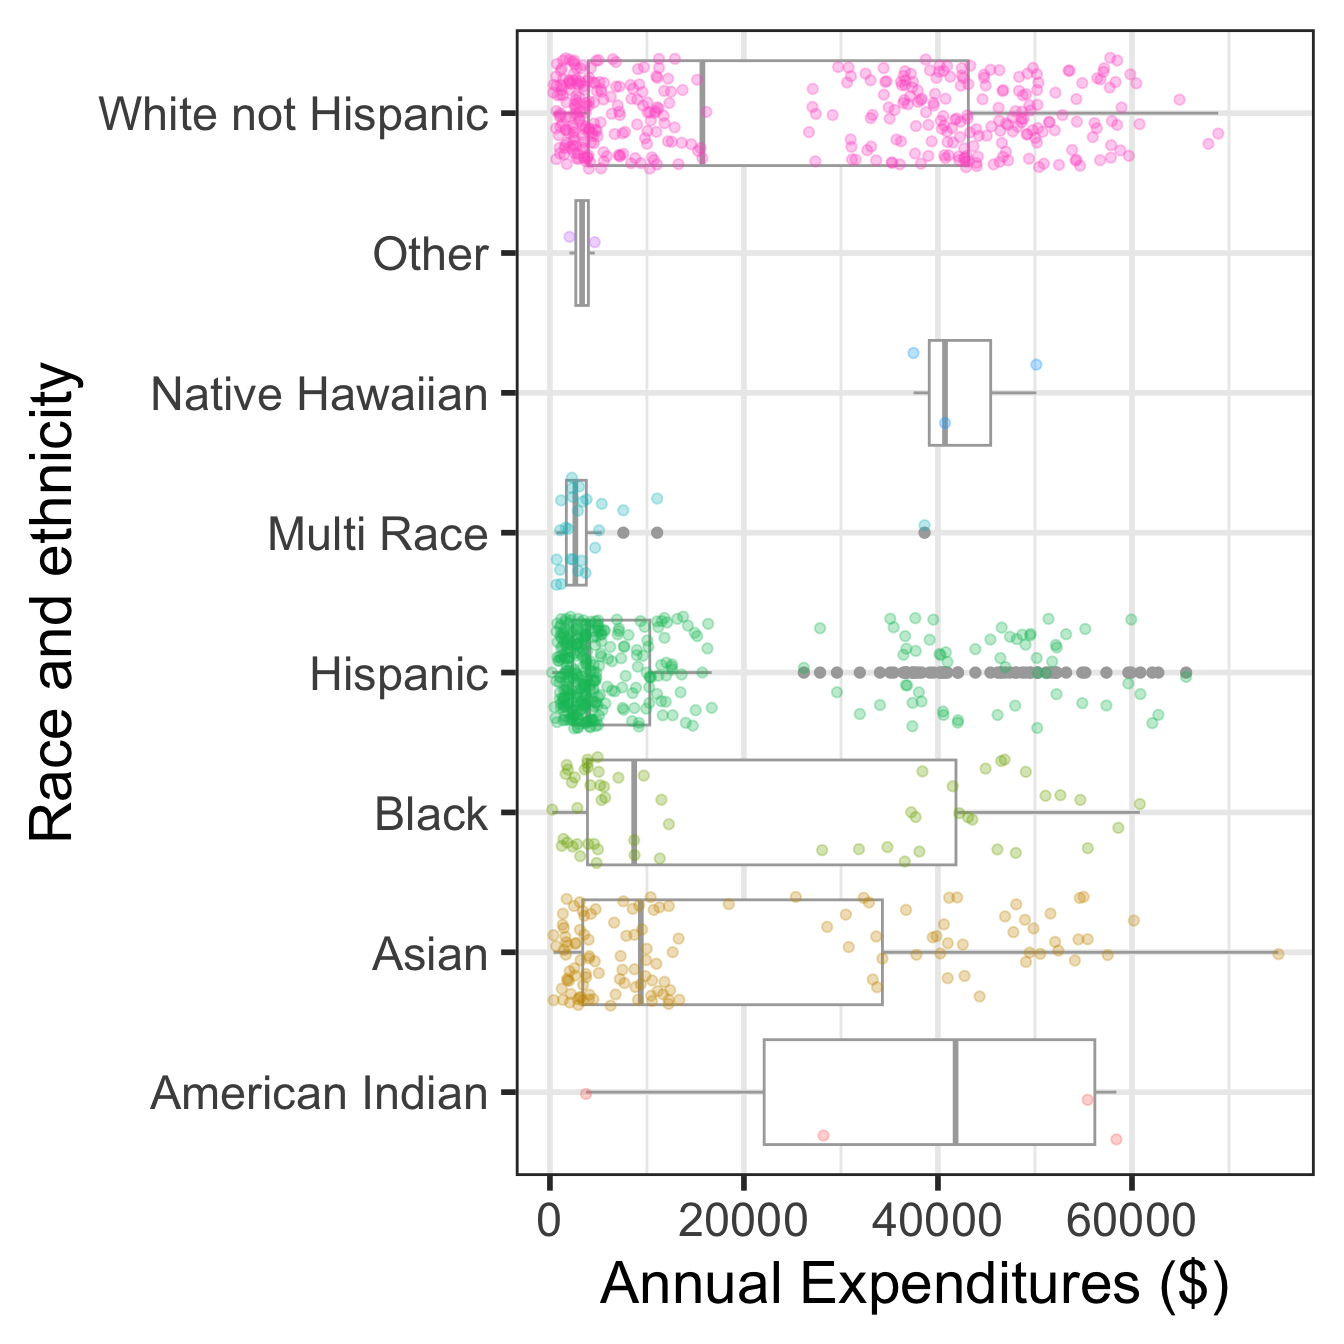
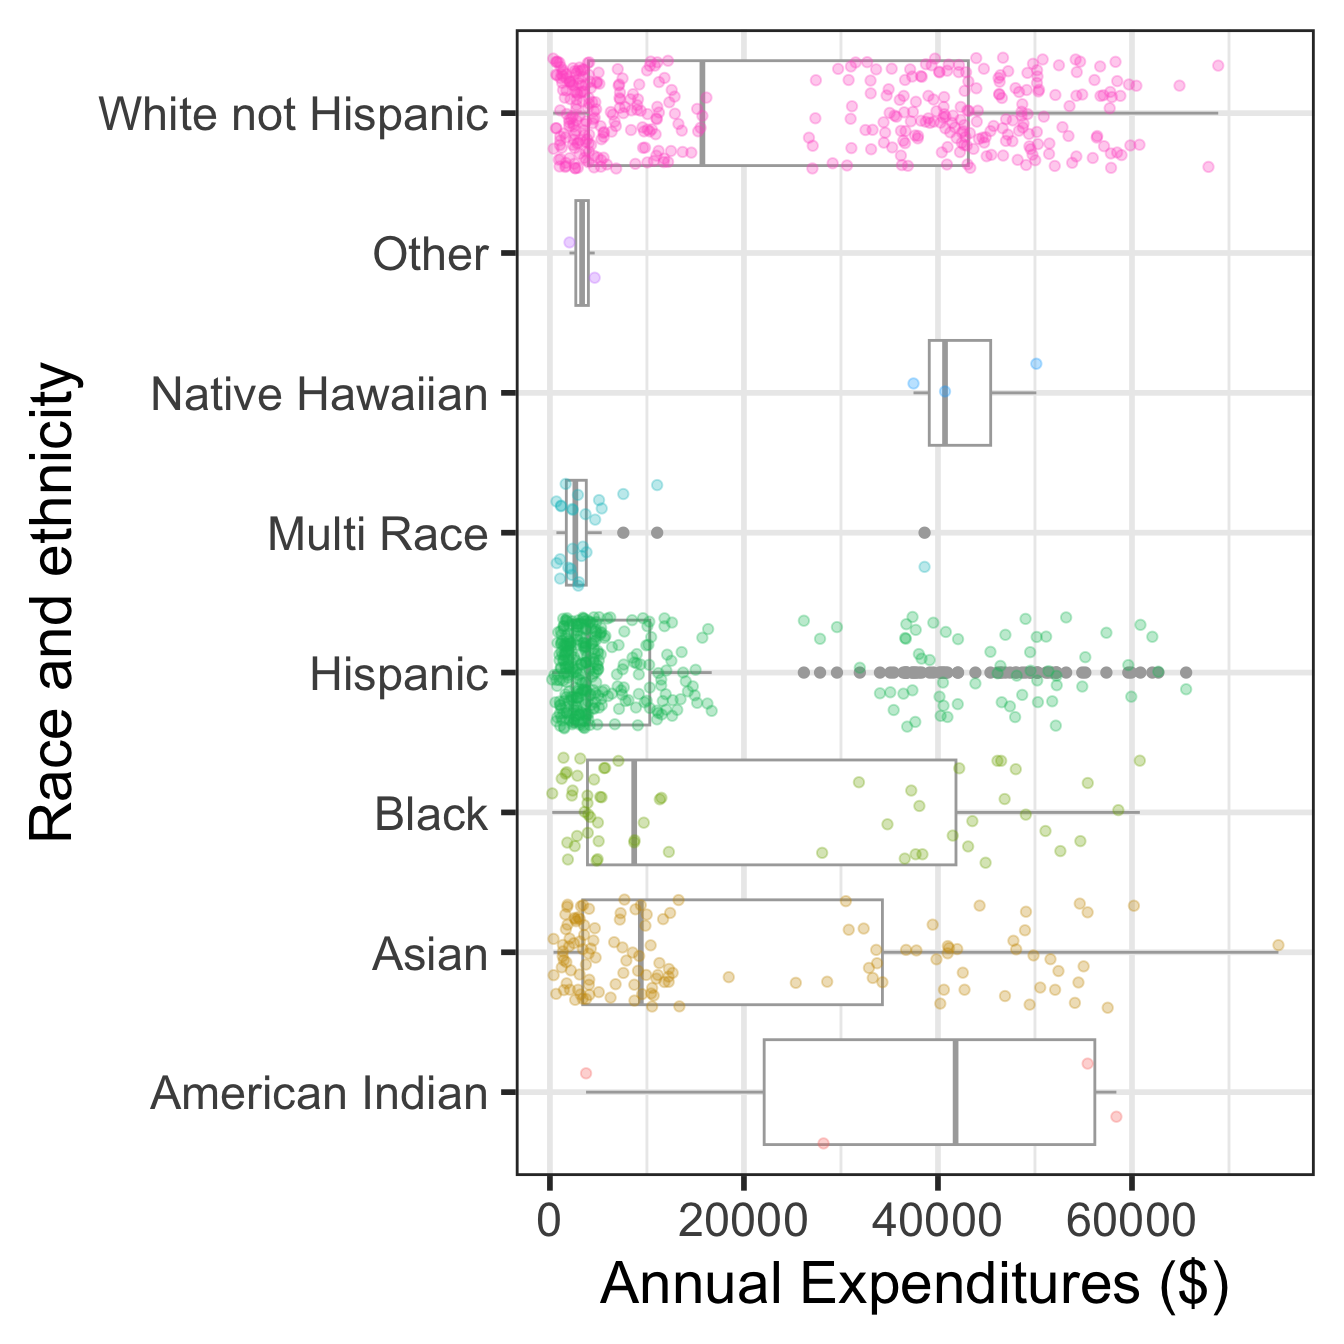
Week 3 updates: Day 4 resources, exam 1 info

diff --git a/docs/weeks.html b/docs/weeks.html
@@ -345,7 +345,7 @@ Description
 </tr>
 </thead>
 <tbody class="list">
-<tr data-index="0" data-categories="" data-listing-date-sort="1729494000000" data-listing-file-modified-sort="1759459202027" data-listing-date-modified-sort="1760338800000" data-listing-reading-time-sort="5" data-listing-title-sort="UNDER CONSTRUCTION: Week 4" data-listing-filename-sort="week_04.qmd" onclick="href = this.querySelector('a').getAttribute('href');
+<tr data-index="0" data-categories="" data-listing-date-sort="1729494000000" data-listing-file-modified-sort="1759459202027" data-listing-date-modified-sort="1760511600000" data-listing-reading-time-sort="5" data-listing-title-sort="UNDER CONSTRUCTION: Week 4" data-listing-filename-sort="week_04.qmd" onclick="href = this.querySelector('a').getAttribute('href');
  if (href) { window.location=href ; return false; }">
 <td>
 <span class="listing-date">10/21/24</span>
@@ -357,7 +357,7 @@ Description
 <span class="listing-description">Bayes’ Rule &amp; EDA</span>
 </td>
 </tr>
-<tr data-index="1" data-categories="" data-listing-date-sort="1730098800000" data-listing-file-modified-sort="1759368857574" data-listing-date-modified-sort="1760338800000" data-listing-reading-time-sort="3" data-listing-title-sort="UNDER CONSTRUCTION: Week 5" data-listing-filename-sort="week_05.qmd" onclick="href = this.querySelector('a').getAttribute('href');
+<tr data-index="1" data-categories="" data-listing-date-sort="1730098800000" data-listing-file-modified-sort="1759368857574" data-listing-date-modified-sort="1760511600000" data-listing-reading-time-sort="3" data-listing-title-sort="UNDER CONSTRUCTION: Week 5" data-listing-filename-sort="week_05.qmd" onclick="href = this.querySelector('a').getAttribute('href');
  if (href) { window.location=href ; return false; }">
 <td>
 <span class="listing-date">10/28/24</span>
@@ -369,7 +369,7 @@ Description
 <span class="listing-description">Variability in estimates and Exam 1</span>
 </td>
 </tr>
-<tr data-index="2" data-categories="" data-listing-date-sort="1730707200000" data-listing-file-modified-sort="1759365411846" data-listing-date-modified-sort="1760338800000" data-listing-reading-time-sort="4" data-listing-title-sort="UNDER CONSTRUCTION: Week 6" data-listing-filename-sort="week_06.qmd" onclick="href = this.querySelector('a').getAttribute('href');
+<tr data-index="2" data-categories="" data-listing-date-sort="1730707200000" data-listing-file-modified-sort="1759365411846" data-listing-date-modified-sort="1760511600000" data-listing-reading-time-sort="4" data-listing-title-sort="UNDER CONSTRUCTION: Week 6" data-listing-filename-sort="week_06.qmd" onclick="href = this.querySelector('a').getAttribute('href');
  if (href) { window.location=href ; return false; }">
 <td>
 <span class="listing-date">11/4/24</span>
@@ -381,7 +381,7 @@ Description
 <span class="listing-description">Confidence Intervals and Hypothesis Testing</span>
 </td>
 </tr>
-<tr data-index="3" data-categories="" data-listing-date-sort="1731312000000" data-listing-file-modified-sort="1759365416438" data-listing-date-modified-sort="1760338800000" data-listing-reading-time-sort="3" data-listing-title-sort="UNDER CONSTRUCTION: Week 7" data-listing-filename-sort="week_07.qmd" onclick="href = this.querySelector('a').getAttribute('href');
+<tr data-index="3" data-categories="" data-listing-date-sort="1731312000000" data-listing-file-modified-sort="1759365416438" data-listing-date-modified-sort="1760511600000" data-listing-reading-time-sort="3" data-listing-title-sort="UNDER CONSTRUCTION: Week 7" data-listing-filename-sort="week_07.qmd" onclick="href = this.querySelector('a').getAttribute('href');
  if (href) { window.location=href ; return false; }">
 <td>
 <span class="listing-date">11/11/24</span>
@@ -393,7 +393,7 @@ Description
 <span class="listing-description">Inference for difference in means, one proportion, and difference in proportions, and power</span>
 </td>
 </tr>
-<tr data-index="4" data-categories="" data-listing-date-sort="1731916800000" data-listing-file-modified-sort="1759365423303" data-listing-date-modified-sort="1760338800000" data-listing-reading-time-sort="4" data-listing-title-sort="UNDER CONSTRUCTION: Week 8" data-listing-filename-sort="week_08.qmd" onclick="href = this.querySelector('a').getAttribute('href');
+<tr data-index="4" data-categories="" data-listing-date-sort="1731916800000" data-listing-file-modified-sort="1759365423303" data-listing-date-modified-sort="1760511600000" data-listing-reading-time-sort="4" data-listing-title-sort="UNDER CONSTRUCTION: Week 8" data-listing-filename-sort="week_08.qmd" onclick="href = this.querySelector('a').getAttribute('href');
  if (href) { window.location=href ; return false; }">
 <td>
 <span class="listing-date">11/18/24</span>
@@ -405,7 +405,7 @@ Description
 <span class="listing-description">Chi-squared tests and ANOVA</span>
 </td>
 </tr>
-<tr data-index="5" data-categories="" data-listing-date-sort="1732521600000" data-listing-file-modified-sort="1759365431752" data-listing-date-modified-sort="1760338800000" data-listing-reading-time-sort="2" data-listing-title-sort="UNDER CONSTRUCTION: Week 9" data-listing-filename-sort="week_09.qmd" onclick="href = this.querySelector('a').getAttribute('href');
+<tr data-index="5" data-categories="" data-listing-date-sort="1732521600000" data-listing-file-modified-sort="1759365431752" data-listing-date-modified-sort="1760511600000" data-listing-reading-time-sort="2" data-listing-title-sort="UNDER CONSTRUCTION: Week 9" data-listing-filename-sort="week_09.qmd" onclick="href = this.querySelector('a').getAttribute('href');
  if (href) { window.location=href ; return false; }">
 <td>
 <span class="listing-date">11/25/24</span>
@@ -417,7 +417,7 @@ Description
 <span class="listing-description">Chi-squared tests and ANOVA</span>
 </td>
 </tr>
-<tr data-index="6" data-categories="" data-listing-date-sort="1733126400000" data-listing-file-modified-sort="1759365439145" data-listing-date-modified-sort="1760338800000" data-listing-reading-time-sort="2" data-listing-title-sort="UNDER CONSTRUCTION: Week 10" data-listing-filename-sort="week_10.qmd" onclick="href = this.querySelector('a').getAttribute('href');
+<tr data-index="6" data-categories="" data-listing-date-sort="1733126400000" data-listing-file-modified-sort="1759365439145" data-listing-date-modified-sort="1760511600000" data-listing-reading-time-sort="2" data-listing-title-sort="UNDER CONSTRUCTION: Week 10" data-listing-filename-sort="week_10.qmd" onclick="href = this.querySelector('a').getAttribute('href');
  if (href) { window.location=href ; return false; }">
 <td>
 <span class="listing-date">12/2/24</span>
@@ -429,7 +429,7 @@ Description
 <span class="listing-description">Simple Linear Regression (cont’d) and Nonparametric Tests</span>
 </td>
 </tr>
-<tr data-index="7" data-categories="" data-listing-date-sort="1733731200000" data-listing-file-modified-sort="1758852038725" data-listing-date-modified-sort="1760338800000" data-listing-reading-time-sort="1" data-listing-title-sort="UNDER CONSTRUCTION: Week 11" data-listing-filename-sort="week_11.qmd" onclick="href = this.querySelector('a').getAttribute('href');
+<tr data-index="7" data-categories="" data-listing-date-sort="1733731200000" data-listing-file-modified-sort="1758852038725" data-listing-date-modified-sort="1760511600000" data-listing-reading-time-sort="1" data-listing-title-sort="UNDER CONSTRUCTION: Week 11" data-listing-filename-sort="week_11.qmd" onclick="href = this.querySelector('a').getAttribute('href');
  if (href) { window.location=href ; return false; }">
 <td>
 <span class="listing-date">12/9/24</span>
@@ -441,7 +441,7 @@ Description
 <span class="listing-description">Finals week</span>
 </td>
 </tr>
-<tr data-index="8" data-categories="" data-listing-date-sort="1759129200000" data-listing-file-modified-sort="1759460471350" data-listing-date-modified-sort="1760338800000" data-listing-reading-time-sort="2" data-listing-title-sort="Week 1" data-listing-filename-sort="week_01.qmd" onclick="href = this.querySelector('a').getAttribute('href');
+<tr data-index="8" data-categories="" data-listing-date-sort="1759129200000" data-listing-file-modified-sort="1759460471350" data-listing-date-modified-sort="1760511600000" data-listing-reading-time-sort="2" data-listing-title-sort="Week 1" data-listing-filename-sort="week_01.qmd" onclick="href = this.querySelector('a').getAttribute('href');
  if (href) { window.location=href ; return false; }">
 <td>
 <span class="listing-date">9/29/25</span>
@@ -453,7 +453,7 @@ Description
 <span class="listing-description">Intro to R &amp; RStudio</span>
 </td>
 </tr>
-<tr data-index="9" data-categories="" data-listing-date-sort="1759734000000" data-listing-file-modified-sort="1759981212167" data-listing-date-modified-sort="1760338800000" data-listing-reading-time-sort="4" data-listing-title-sort="Week 2" data-listing-filename-sort="week_02.qmd" onclick="href = this.querySelector('a').getAttribute('href');
+<tr data-index="9" data-categories="" data-listing-date-sort="1759734000000" data-listing-file-modified-sort="1759981212167" data-listing-date-modified-sort="1760511600000" data-listing-reading-time-sort="4" data-listing-title-sort="Week 2" data-listing-filename-sort="week_02.qmd" onclick="href = this.querySelector('a').getAttribute('href');
  if (href) { window.location=href ; return false; }">
 <td>
 <span class="listing-date">10/6/25</span>
@@ -465,7 +465,7 @@ Description
 <span class="listing-description">Data collection &amp; Probability</span>
 </td>
 </tr>
-<tr data-index="10" data-categories="" data-listing-date-sort="1760338800000" data-listing-file-modified-sort="1760384776384" data-listing-date-modified-sort="1760338800000" data-listing-reading-time-sort="6" data-listing-title-sort="Week 3" data-listing-filename-sort="week_03.qmd" onclick="href = this.querySelector('a').getAttribute('href');
+<tr data-index="10" data-categories="" data-listing-date-sort="1760338800000" data-listing-file-modified-sort="1760550915253" data-listing-date-modified-sort="1760511600000" data-listing-reading-time-sort="7" data-listing-title-sort="Week 3" data-listing-filename-sort="week_03.qmd" onclick="href = this.querySelector('a').getAttribute('href');
  if (href) { window.location=href ; return false; }">
 <td>
 <span class="listing-date">10/13/25</span>

diff --git a/docs/weeks/week_03.html b/docs/weeks/week_03.html
@@ -262,6 +262,7 @@ ul.task-list li input[type="checkbox"] {
   <li><a href="#day-05" id="toc-day-05" class="nav-link" data-scroll-target="#day-05">Day 05</a></li>
   </ul></li>
   <li><a href="#homework" id="toc-homework" class="nav-link" data-scroll-target="#homework">Homework</a></li>
+  <li><a href="#sec-Exam1info" id="toc-sec-Exam1info" class="nav-link" data-scroll-target="#sec-Exam1info">Exam 1 information</a></li>
   <li><a href="#international-day-of-women-in-statistics-and-data-science" id="toc-international-day-of-women-in-statistics-and-data-science" class="nav-link" data-scroll-target="#international-day-of-women-in-statistics-and-data-science">International Day of Women in Statistics and Data Science</a></li>
   </ul>
 </nav>
@@ -294,7 +295,7 @@ ul.task-list li input[type="checkbox"] {
     <div>
     <div class="quarto-title-meta-heading">Modified</div>
     <div class="quarto-title-meta-contents">
-      <p class="date-modified">October 13, 2025</p>
+      <p class="date-modified">October 15, 2025</p>
     </div>
   </div>
     
@@ -476,7 +477,10 @@ Note
 <ul>
 <li><strong>Practice Problems</strong>
 <ul>
-<li>Textbook: 2.18 <em>Predisposition for thrombosis</em></li>
+<li>Textbook: 2.18 <em>Predisposition for thrombosis</em>
+<ul>
+<li>Solution typed up using LaTeX: <a href="https://sakai.ohsu.edu/access/content/group/BSTA-511-1-AA-F25/misc/PP_Day4.qmd">qmd</a>, <a href="https://sakai.ohsu.edu/access/content/group/BSTA-511-1-AA-F25/misc/PP_Day4.html">html</a></li>
+</ul></li>
 </ul></li>
 <li>R Packages (<strong>Fall 2023: Day 2</strong>)
 <ul>
@@ -484,7 +488,10 @@ Note
 </ul></li>
 <li>Bayes’ Rule (<strong>Fall 2023: Day 5</strong>)
 <ul>
-<li>Example 2.10 on pg 6 of slides</li>
+<li>Example 2.10 on pg 6 of slides
+<ul>
+<li><a href="https://sakai.ohsu.edu/access/content/group/BSTA-511-1-AA-F25/misc/Day05_Ex2.10_bsta511-notes.pdf">Solution to Ex 2.10</a></li>
+</ul></li>
 </ul></li>
 <li>From HW 2
 <ul>
@@ -534,8 +541,29 @@ Note
 <ul>
 <li><a href="../homework/HW_2_F25_bsta511.html">HW 2</a> due on Sat, 10/18
 <ul>
-<li>See <a href="../slides_pdf/Day03_bsta511_part3_data_wrangling.pdf">extra data wrangling code<br>
-s</a> (both pdf and code) in table above with slides &amp; recording links.</li>
+<li>See <a href="../slides_pdf/Day03_bsta511_part3_data_wrangling.pdf">extra data wrangling code</a> (both pdf and code) in table above with slides &amp; recording links.</li>
+</ul></li>
+</ul>
+</section>
+<section id="sec-Exam1info" class="level2">
+<h2 class="anchored" data-anchor-id="sec-Exam1info">Exam 1 information</h2>
+<ul>
+<li>Exam 1 will be on Wed, Oct.&nbsp;22nd</li>
+<li>Samples of <a href="https://sakai.ohsu.edu/access/content/group/BSTA-511-1-AA-F25/Exam_samples/Exam_1_samples_Ch1-2.pdf">past exam questions</a> and <a href="https://sakai.ohsu.edu/access/content/group/BSTA-511-1-AA-F25/Exam_samples/Exam_1_samples_Ch1-2%20answers.pdf">answers</a> (on Sakai)
+<ul>
+<li><em>Note: I still need to add answers to Fall 2024 questions</em></li>
+</ul></li>
+<li>Material will cover <strong>Days 1-5</strong>,
+<ul>
+<li>which is approximately <strong>Chapters 1 &amp; 2</strong> from the textbook.</li>
+</ul></li>
+<li>The exam will be in-class and handwritten. <em>Bring a calculator.</em></li>
+<li>You may bring one page of notes on an 8.5” x 11” sheet of paper.
+<ul>
+<li>You may use both sides.</li>
+<li>You may type your notes.</li>
+<li>You may <strong>not</strong> use screenshots of the notes or textbook</li>
+<li>You will be turning in the page of notes with the exam, so please add your name to the sheet.</li>
 </ul></li>
 </ul>
 </section>

diff --git a/docs/slides_md/Day03_bsta511_md.html b/docs/slides_md/Day03_bsta511_md.html
@@ -7,9 +7,9 @@
 <meta name="viewport" content="width=device-width, initial-scale=1.0, user-scalable=yes">
 
 <meta name="author" content="Meike Niederhausen, PhD">
-<meta name="dcterms.date" content="2024-10-16">
+<meta name="dcterms.date" content="2025-10-15">
 
-<title>BSTA 511/611 Fall 2025 - Day 3: Data visualization</title>
+<title>Day 3 BSTA 511/611</title>
 <style>
 code{white-space: pre-wrap;}
 span.smallcaps{font-variant: small-caps;}
@@ -290,7 +290,6 @@ pre > code.sourceCode > span > a:first-child::before { text-decoration: underlin
    
   <ul>
   <li><a href="#goals-for-today" id="toc-goals-for-today" class="nav-link active" data-scroll-target="#goals-for-today">Goals for today</a></li>
-  <li><a href="#international-day-of-women-in-statistics-and-data-science" id="toc-international-day-of-women-in-statistics-and-data-science" class="nav-link" data-scroll-target="#international-day-of-women-in-statistics-and-data-science">International Day of Women in Statistics and Data Science</a></li>
   <li><a href="#mimis-tip-of-the-day-sending-messages-in-slack" id="toc-mimis-tip-of-the-day-sending-messages-in-slack" class="nav-link" data-scroll-target="#mimis-tip-of-the-day-sending-messages-in-slack">Mimi’s tip of the day: sending messages in Slack</a></li>
   <li><a href="#recap-of-last-time" id="toc-recap-of-last-time" class="nav-link" data-scroll-target="#recap-of-last-time">Recap of last time</a></li>
   <li><a href="#r-packages" id="toc-r-packages" class="nav-link" data-scroll-target="#r-packages">R Packages</a>
@@ -374,7 +373,7 @@ pre > code.sourceCode > span > a:first-child::before { text-decoration: underlin
 <header id="title-block-header" class="quarto-title-block default">
 <div class="quarto-title">
 <h1 class="title">Day 3: Data visualization</h1>
-<p class="subtitle lead">BSTA 511/611 Fall 2024 Day 5, OHSU</p>
+<p class="subtitle lead">BSTA 511/611 Fall 2025 Day 5, OHSU</p>
   <div class="quarto-categories">
     <div class="quarto-category">Week 3</div>
   </div>
@@ -394,7 +393,7 @@ pre > code.sourceCode > span > a:first-child::before { text-decoration: underlin
     <div>
     <div class="quarto-title-meta-heading">Published</div>
     <div class="quarto-title-meta-contents">
-      <p class="date">October 16, 2024</p>
+      <p class="date">October 15, 2025</p>
     </div>
   </div>
   
@@ -428,17 +427,6 @@ pre > code.sourceCode > span > a:first-child::before { text-decoration: underlin
 </figure>
 </div>
 </div>
-</div>
-</section>
-<section id="international-day-of-women-in-statistics-and-data-science" class="level2">
-<h2 class="anchored" data-anchor-id="international-day-of-women-in-statistics-and-data-science">International Day of Women in Statistics and Data Science</h2>
-<p>Tuesday, October 8, 2024</p>
-<p>12 am - 11:59 pm UTC (5pm 10/7 to 4:59 pm 10/8 here)</p>
-<div class="quarto-figure quarto-figure-center">
-<figure class="figure">
-<p><img src="../img_slides/IDWSDS-logo-large.png" class="img-fluid figure-img"></p>
-<figcaption class="figure-caption"><a href="http://www.idwsds.org/">International Day of Women in Statistics and Data Science</a></figcaption>
-</figure>
 </div>
 </section>
 <section id="mimis-tip-of-the-day-sending-messages-in-slack" class="level2 smaller">

diff --git a/docs/schedule.html b/docs/schedule.html
@@ -273,7 +273,7 @@ ul.task-list li input[type="checkbox"] {
     <div>
     <div class="quarto-title-meta-heading">Modified</div>
     <div class="quarto-title-meta-contents">
-      <p class="date-modified">October 10, 2025</p>
+      <p class="date-modified">October 15, 2025</p>
     </div>
   </div>
     

diff --git a/docs/weeks/week_04.html b/docs/weeks/week_04.html
@@ -295,7 +295,7 @@ ul.task-list li input[type="checkbox"] {
     <div>
     <div class="quarto-title-meta-heading">Modified</div>
     <div class="quarto-title-meta-contents">
-      <p class="date-modified">October 2, 2025</p>
+      <p class="date-modified">October 15, 2025</p>
     </div>
   </div>
     

diff --git a/docs/weeks/week_05.html b/docs/weeks/week_05.html
@@ -293,7 +293,7 @@ ul.task-list li input[type="checkbox"] {
     <div>
     <div class="quarto-title-meta-heading">Modified</div>
     <div class="quarto-title-meta-contents">
-      <p class="date-modified">October 1, 2025</p>
+      <p class="date-modified">October 15, 2025</p>
     </div>
   </div>
     
